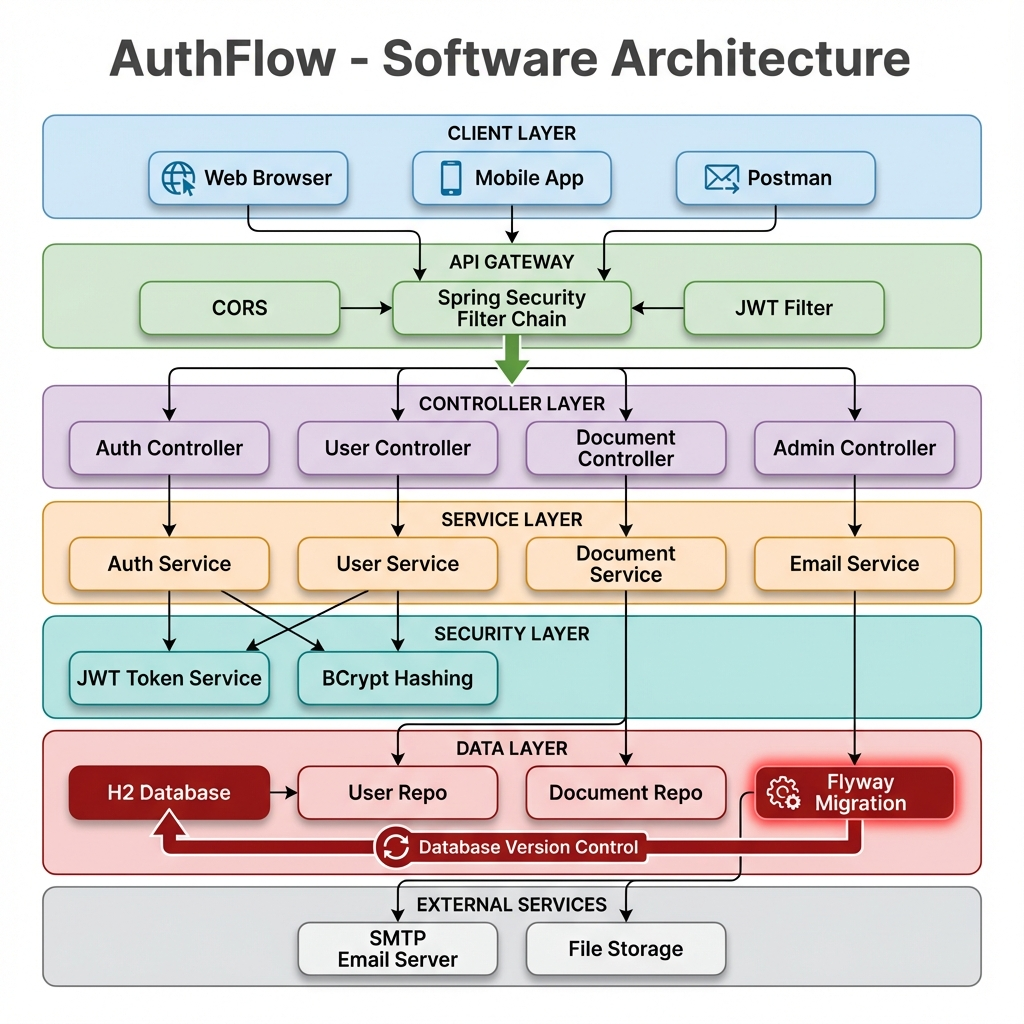
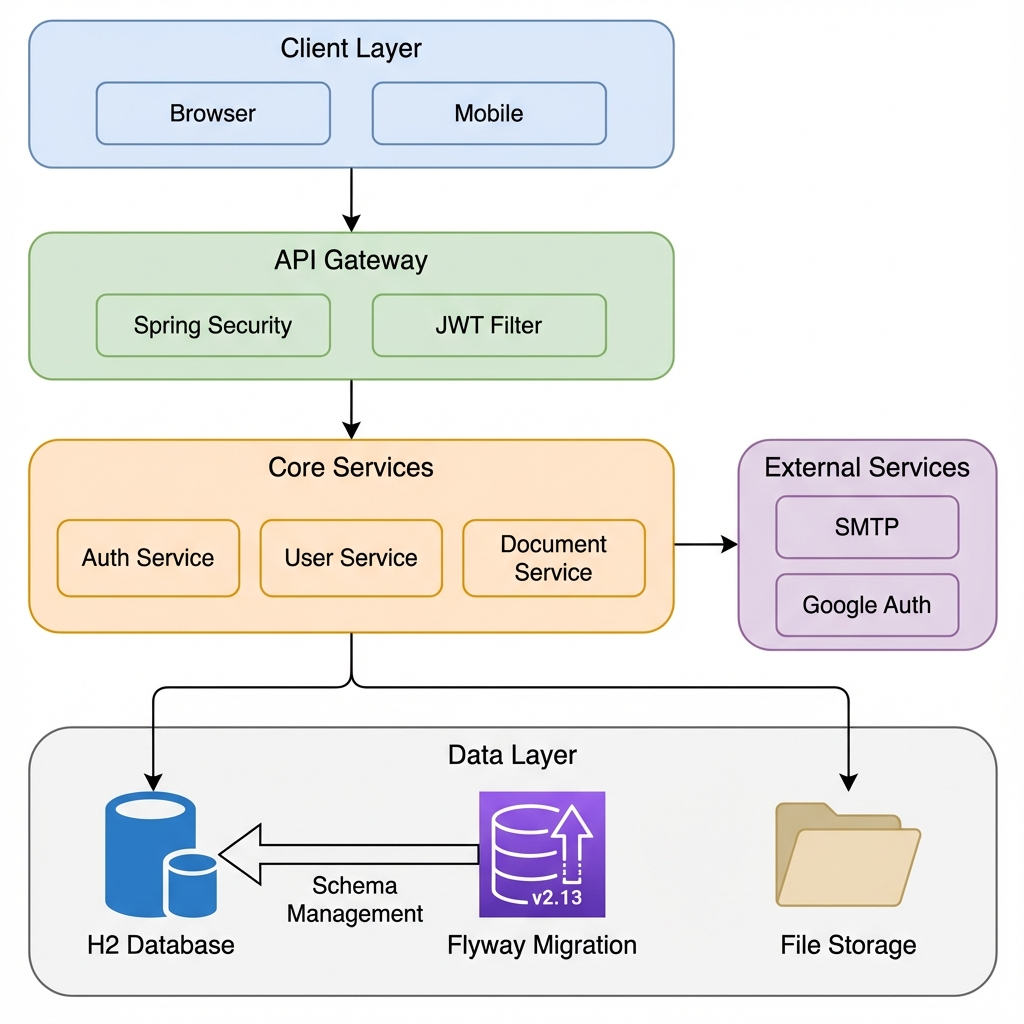
Docs: Updated architecture diagram (v3) with visible Flyway component

diff --git a/README.md b/README.md
@@ -49,7 +49,7 @@ This project serves as a **comprehensive reference implementation** for masterin
 
 ## 📊 Architecture Diagram
 
-![AuthFlow Architecture](docs/images/architecture.png?v=2)
+![AuthFlow Architecture](docs/images/architecture.png?v=3)
 
 ### Detailed Component Flow
 
